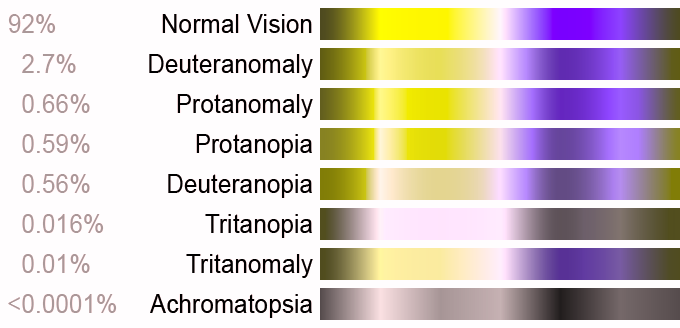
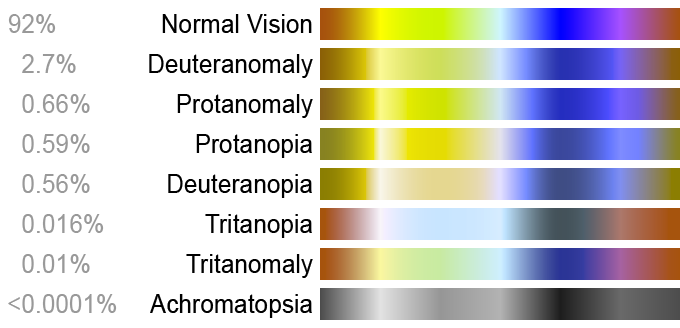
sync local code

Changed region(s): [[0.5559, 0.0, 1.0, 0.8537], [0.4632, 0.0, 0.5559, 0.3659], [0.4632, 0.6098, 0.525, 0.8537]]

diff --git a/main.py b/main.py
@@ -23,9 +23,9 @@ LMS_GABE5 = np.array([[ 0.58, 0.52, -0.1], [ 0., 1., 0.], [0., 0., 1.]], dtype=n
 LMS_GABE6 = np.array([[ 0.7, 0.33, -0.03], [ 0., 1., 0.], [0., 0., 1.]], dtype=np.float16)
 LMS_GABE7 = np.array([[ 0.62, 0.53, -0.15], [ 0., 1., 0.], [0., 0., 1.]], dtype=np.float16)
 
-IMG_FRONT = "colorful-cube-pattern_1336x768.jpg"
+IMG_FRONT = "ishiharatest_1_640.jpeg"
 
-def set_lms_sliders(lms_t, s1, s2, s3, s4, s5, s6):
+def set_lms_sliders_6(lms_t, s1, s2, s3, s4, s5, s6):
   lms_t[0][0] = s1
   lms_t[0][1] = s2
   lms_t[0][2] = 1 - s1 - s2
@@ -39,7 +39,22 @@ def set_lms_sliders(lms_t, s1, s2, s3, s4, s5, s6):
   lms_t[2][1] = 1 - s5 - s6
 
   return lms_t
-  
+
+def set_lms_sliders_3(lms_t, s1, s2, s3):
+  lms_t[0][0] = 1. - s1
+  lms_t[0][1] = 0.90822864 * s1
+  lms_t[0][2] = 0.008192 * s1
+
+  lms_t[1][1] = 1. - s2
+  lms_t[1][0] = 1.10104433 * s2
+  lms_t[1][2] = -0.00901975 * s2
+
+  lms_t[2][2] = 1. - s3
+  lms_t[2][0] = -0.15773032 * s3
+  lms_t[2][1] = 1.19465634 * s3
+
+  return lms_t
+
 
 @app.route("/")
 def home():
@@ -69,7 +84,9 @@ def test():
   user_image_file_name = IMG_FRONT
   user_image = os.path.join(app.config['IMAGES_FOLDER'], user_image_file_name)
   lms_t = LMSTD
-  lms_t = set_lms_sliders(lms_t, slider_1, slider_2, slider_3, slider_4, slider_5, slider_6)
+
+  lms_t = set_lms_sliders_3(lms_t, slider_2, slider_4, slider_6)
+  # lms_t = set_lms_sliders_6(lms_t, slider_1, slider_2, slider_3, slider_4, slider_5, slider_6)
   print(lms_t)
   user_image_t_file_name = img_utils.process_image(user_image, lms_t)
   
